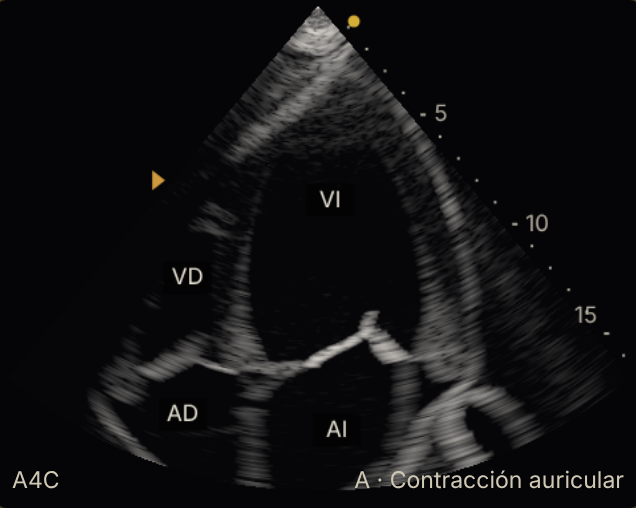
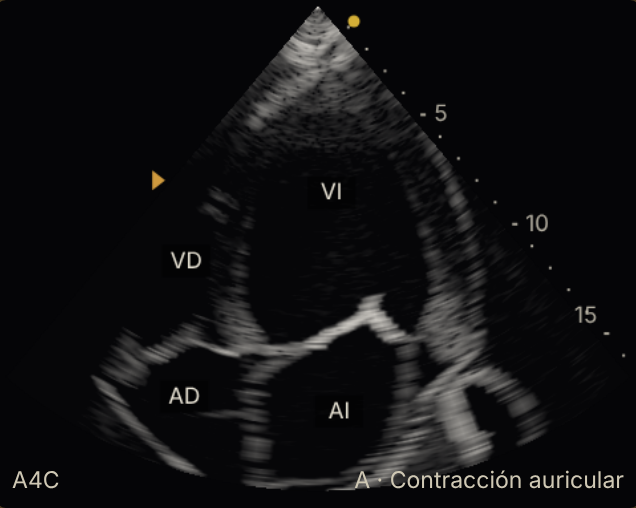
D4: dilatada globular en el dibujo 2 (esfericidad)

diff --git a/autonomo/bloques/mv-eco/paso6/d4-informe.md b/autonomo/bloques/mv-eco/paso6/d4-informe.md
@@ -1,0 +1,16 @@
+# D4 · dilatada esférica (dibujo 2)
+Cambio: ajuste `esfericidad: 0.14` en `AJUSTES` de `corazon-geo-2.mjs` (con comentario). Por encima de 120 mL el largo del VI crece
+con v^0,14 en vez de v^0,27 (`geomVi`/`viConSeptal` en `anatomia.mjs` con parámetro opcional `expLargoDil`, null = como siempre;
+`baseGeometricaHoy` y los 3 usos de `geomVi(vviTd)` en `corazon-geo.mjs` lo leen de `ajustes`). El radio se recalcula: el volumen
+sigue siendo el del motor. Dibujo 1 sin cambios (instantánea verde).
+Índice (largo / ancho máximo endocárdico, telediástole, motor: normal 115 mL, dilatada 210 mL, mioVi 1,4):
+- dibujo 1: normal 1,48 · dilatada 1,38 · dibujo 2: normal 1,48 · dilatada 1,23 (160 mL: 1,34; 300 mL: 1,09).
+Fuente: ni Mitchell 2019 (Fig. 8 p. 8, solo un trazado de VI dilatado) ni Lang 2015 dan índice de esfericidad (pdftotext sin
+«sphericity»). El rango 1,2-1,4 / 1,6-2 y el exponente son ILUSTRATIVOS. Nota: el normal sale 1,48, no 1,6-2 (no tocado: fuera de D4).
+Prueba: `geometria.test.mjs` «D4 esfericidad» (dilatada < normal, 1,2-1,4, dibujo 1 más alargado) en verde.
+Capturas: `autonomo/bloques/mv-eco/capturas-realismo/dilatada-a4c.png` (nueva, globular; solo regeneré esta). PLAX no capturada.
+Comprobado: geometria + instantánea + interruptor + contrato: 71 ok, 1 fallo = «tiempo: la prueba entera < 60 s» (máquina cargada por
+otra suite en paralelo). `jueces --geometria --dibujo nuevo`: 0 fallos de 147 (el único ❌ es Caché: no se cambia la versión por encargo).
+## No comprobado / riesgo
+Suite completa de la eco no terminada en el tiempo (timeouts); falta reintentar sola. PLAX y shock-vivo no vistos. Mioc. mayor
+a 250 mL se ve casi esférico (≤1,1), sin fuente. Cambia el largo → MAPSE/«descenso» de la dilatada en dibujo 2 (coherente con LeTd).
